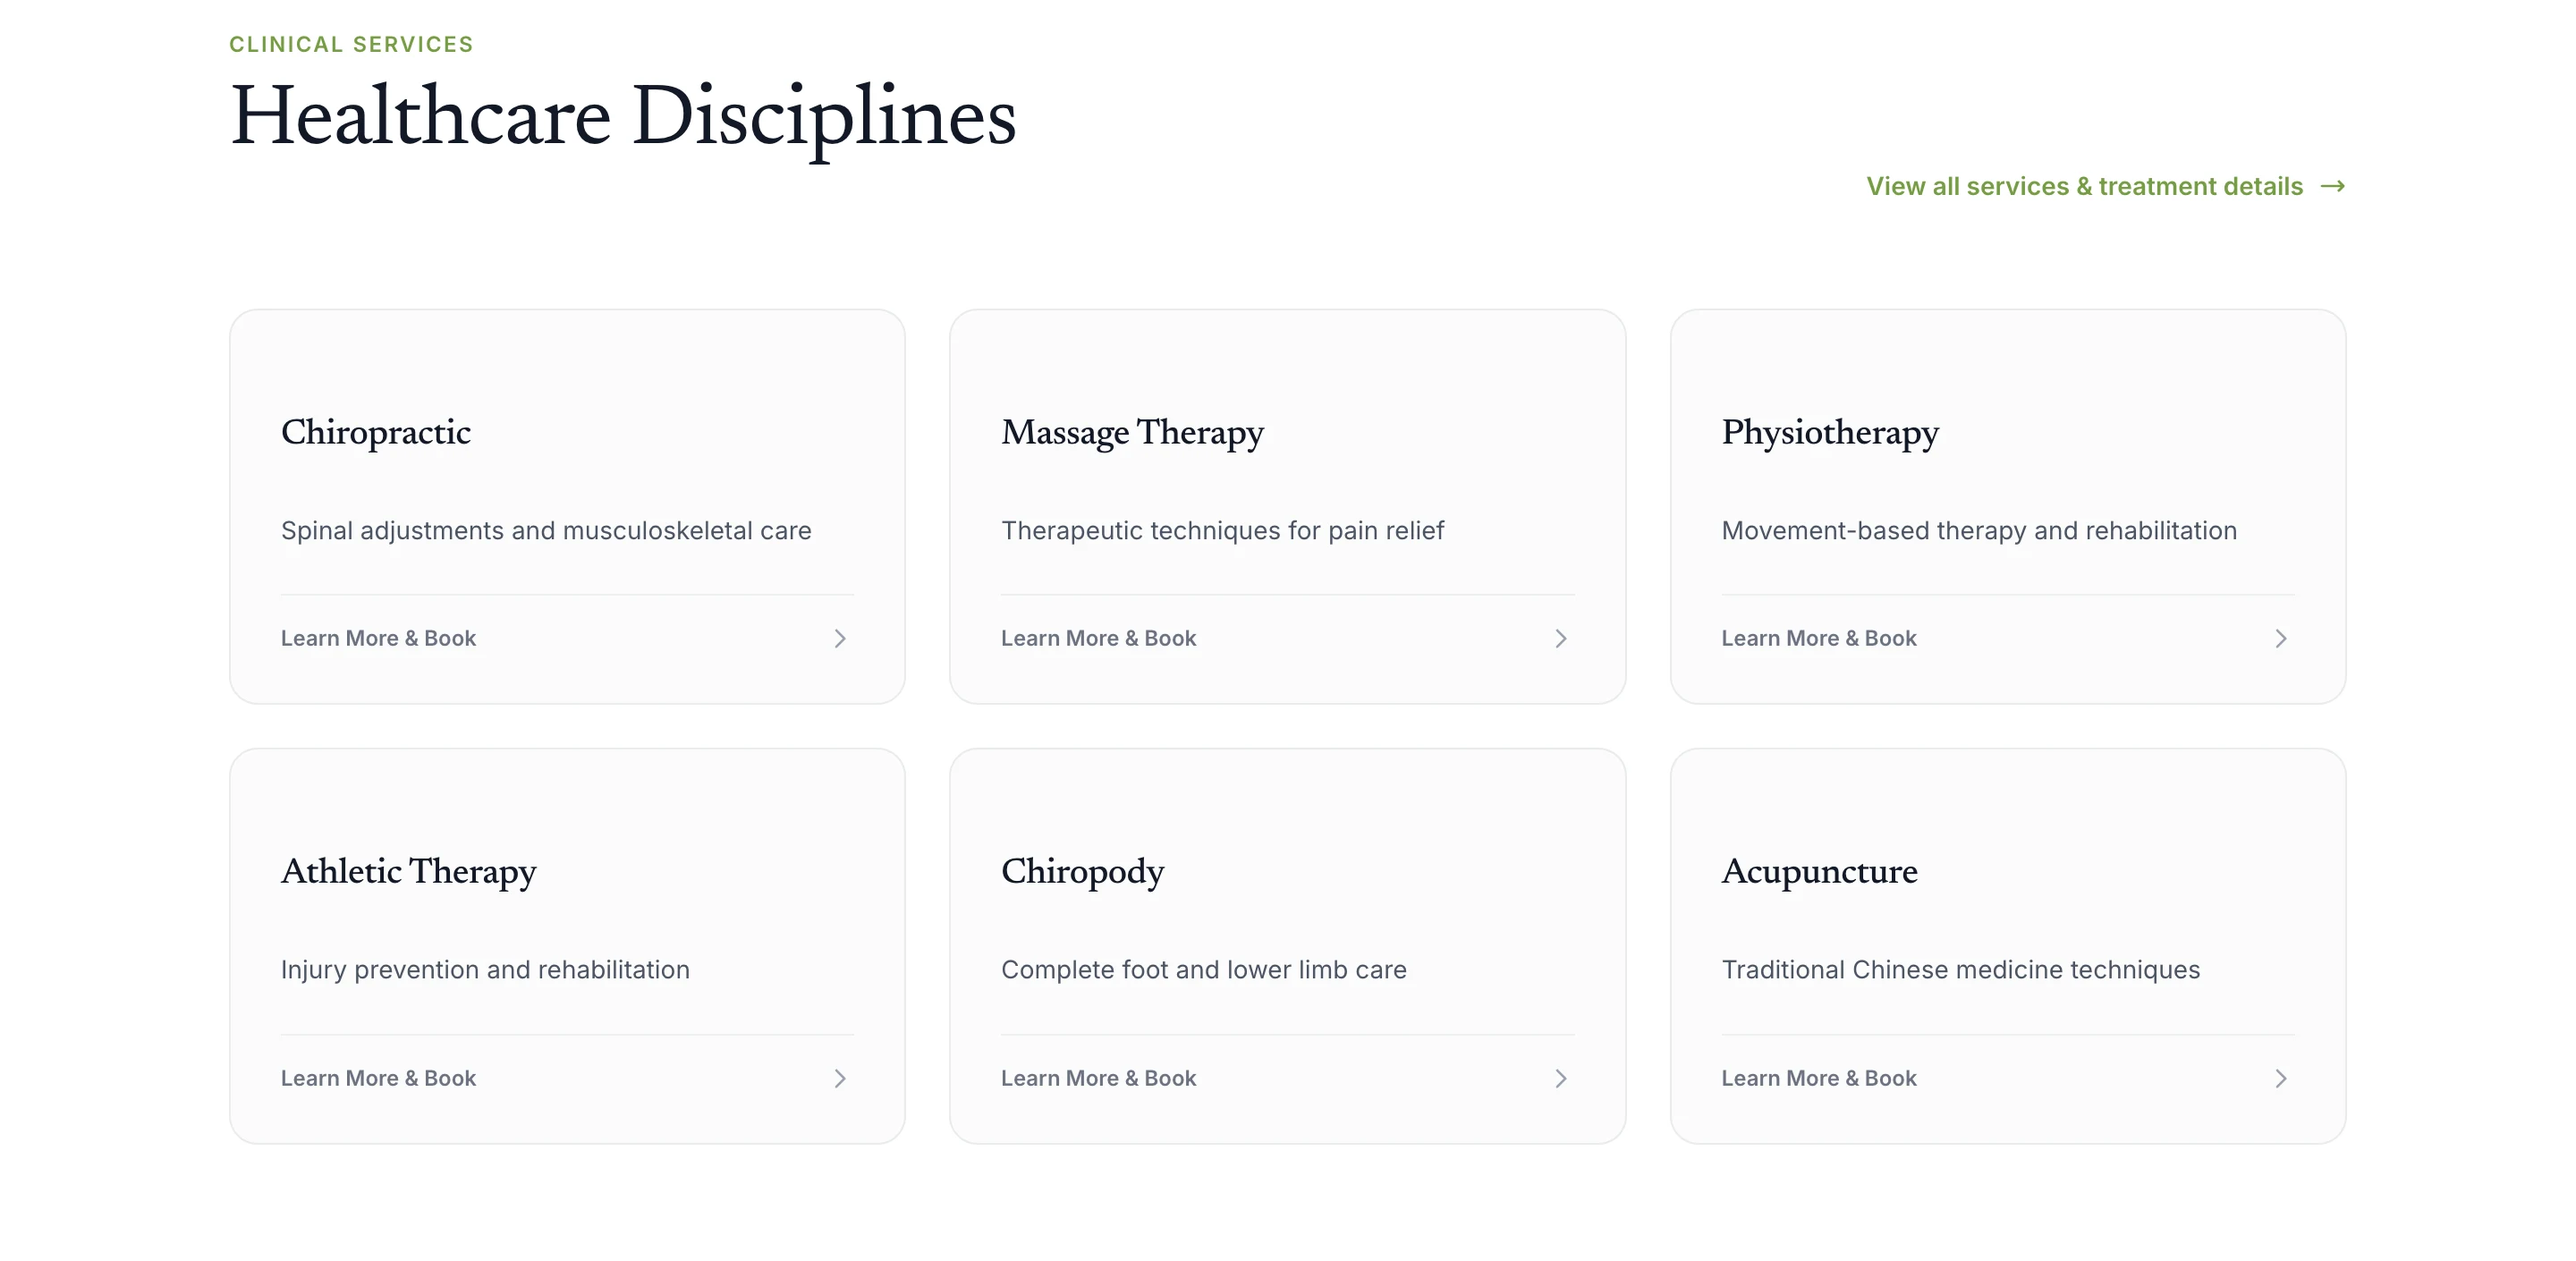
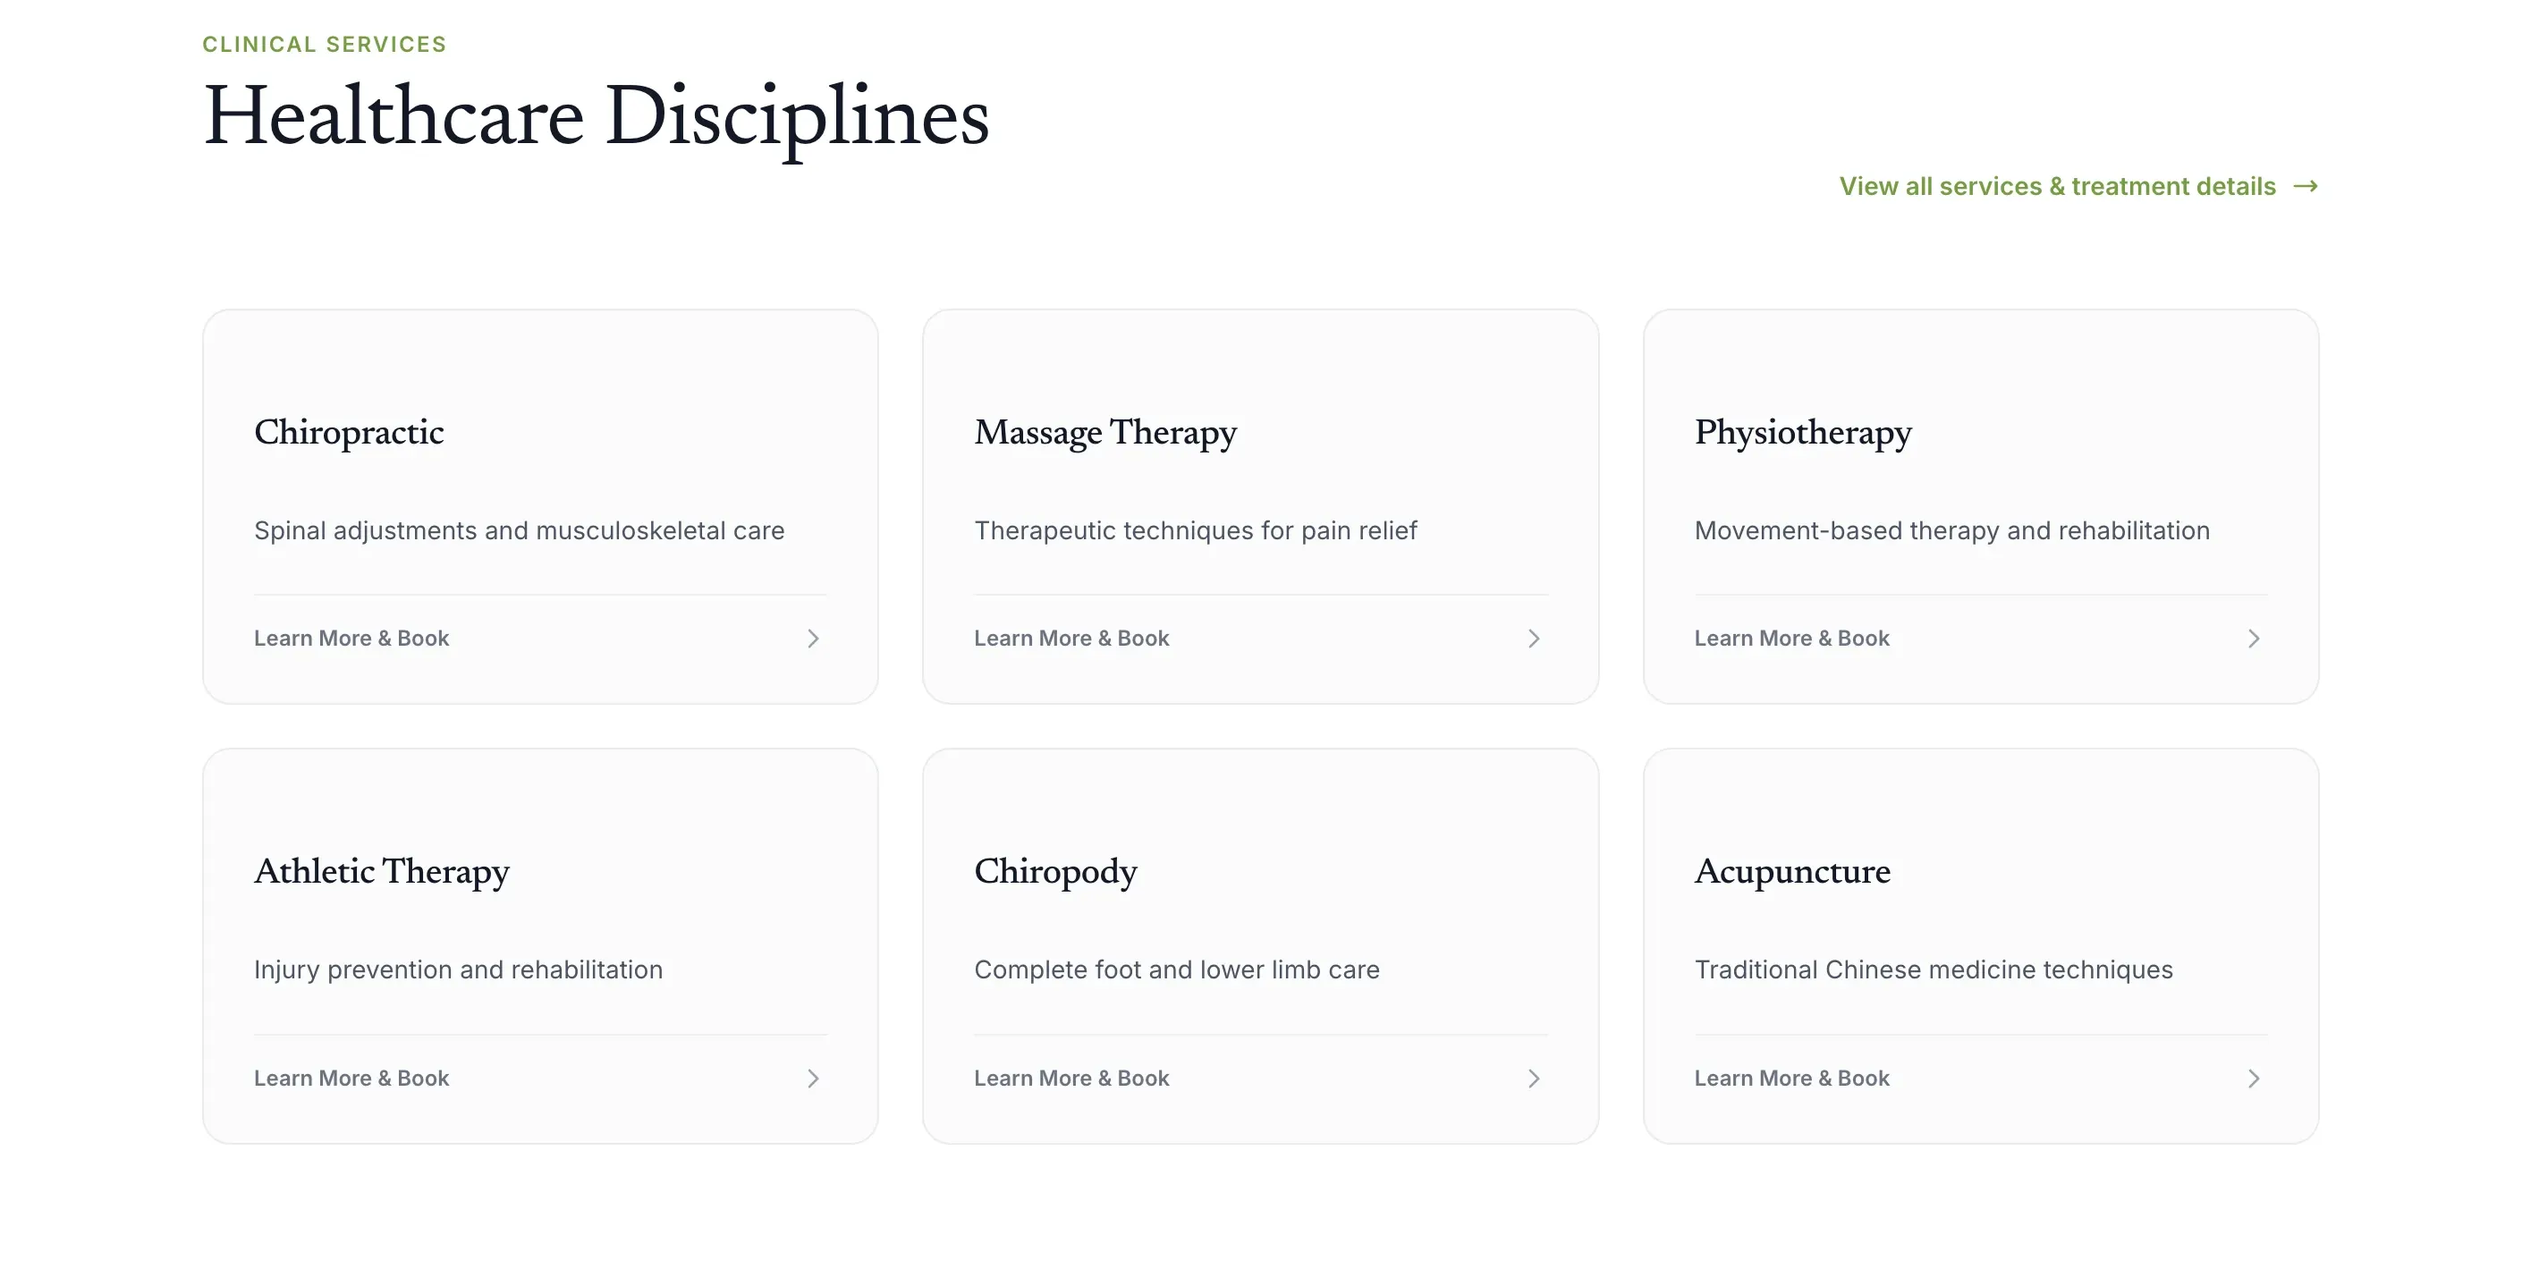
Stop the ribbon frames cropping the sides off every screen
The stills captured for the ribbons are 2880x1410. The browser viewport was
705 CSS tall rather than the 900 requested, so they came out at an aspect of
2.04 while the frames were 16:10. object-cover matched the height and trimmed
about 11% off each side, which is why headings lost their first letter:
"Healthcare Disciplines" rendered as "lealthcare Disciplines".

Every ribbon still is now a clean 2:1 and the frame matches. That takes ~30px
a side off the new captures and the surplus off the bottom of the older 16:10
shots, which just shows a little less page.

kinetikare-compare, endorphins-booking, endorphins-home and wedding-hero are
also the project cards and gallery figures, where 16:10 is correct and the
declared width/height depend on it. Those keep their originals; the ribbon
gets its own 2:1 copies under reel- names.

Claude-Session: https://claude.ai/code/session_01Qqc7R5D8dJJ9TUneVwgicx

diff --git a/src/lib/work.ts b/src/lib/work.ts
@@ -380,7 +380,7 @@ export const ribbonRowA: RibbonShot[] = [
     slug: 'wedding-website',
   },
   {
-    src: '/images/work/kinetikare-compare.webp',
+    src: '/images/work/reel-kk-compare.webp',
     alt: 'KinetiKare comparison table setting tennis elbow against golfer’s elbow',
     project: 'KinetiKare Physiotherapy',
     label: 'Two conditions, compared',
@@ -418,7 +418,7 @@ export const ribbonRowB: RibbonShot[] = [
     slug: 'wedding-website',
   },
   {
-    src: '/images/work/endorphins-booking-2026-08.webp',
+    src: '/images/work/reel-endo-booking.webp',
     alt: 'Endorphins booking page with reception and practitioner scheduling side by side',
     project: 'Endorphins Health and Wellness Centre',
     label: 'Booking',
@@ -432,14 +432,14 @@ export const ribbonRowB: RibbonShot[] = [
     slug: 'kinetikare',
   },
   {
-    src: '/images/work/wedding-hero.webp',
+    src: '/images/work/reel-wed-arrival.webp',
     alt: 'Wedding website arrival screen with a framed photograph, the names, and the date',
     project: 'Wedding Website',
     label: 'The arrival',
     slug: 'wedding-website',
   },
   {
-    src: '/images/work/endorphins-home-2026-08.webp',
+    src: '/images/work/reel-endo-home.webp',
     alt: 'Endorphins clinic homepage led by a photograph of the building',
     project: 'Endorphins Health and Wellness Centre',
     label: 'The clinic homepage',

diff --git a/src/components/ScreenRibbons.tsx b/src/components/ScreenRibbons.tsx
@@ -60,7 +60,7 @@ function Row({
             >
               <div className={`${frameShellFor('dark')} ribbon-frame`}>
                 <FrameChrome />
-                <div className="relative aspect-[16/10] overflow-hidden bg-[hsl(222,12%,14%)]">
+                <div className="relative aspect-[2/1] overflow-hidden bg-[hsl(222,12%,14%)]">
                   <Image
                     src={shot.src}
                     alt={shot.alt}
